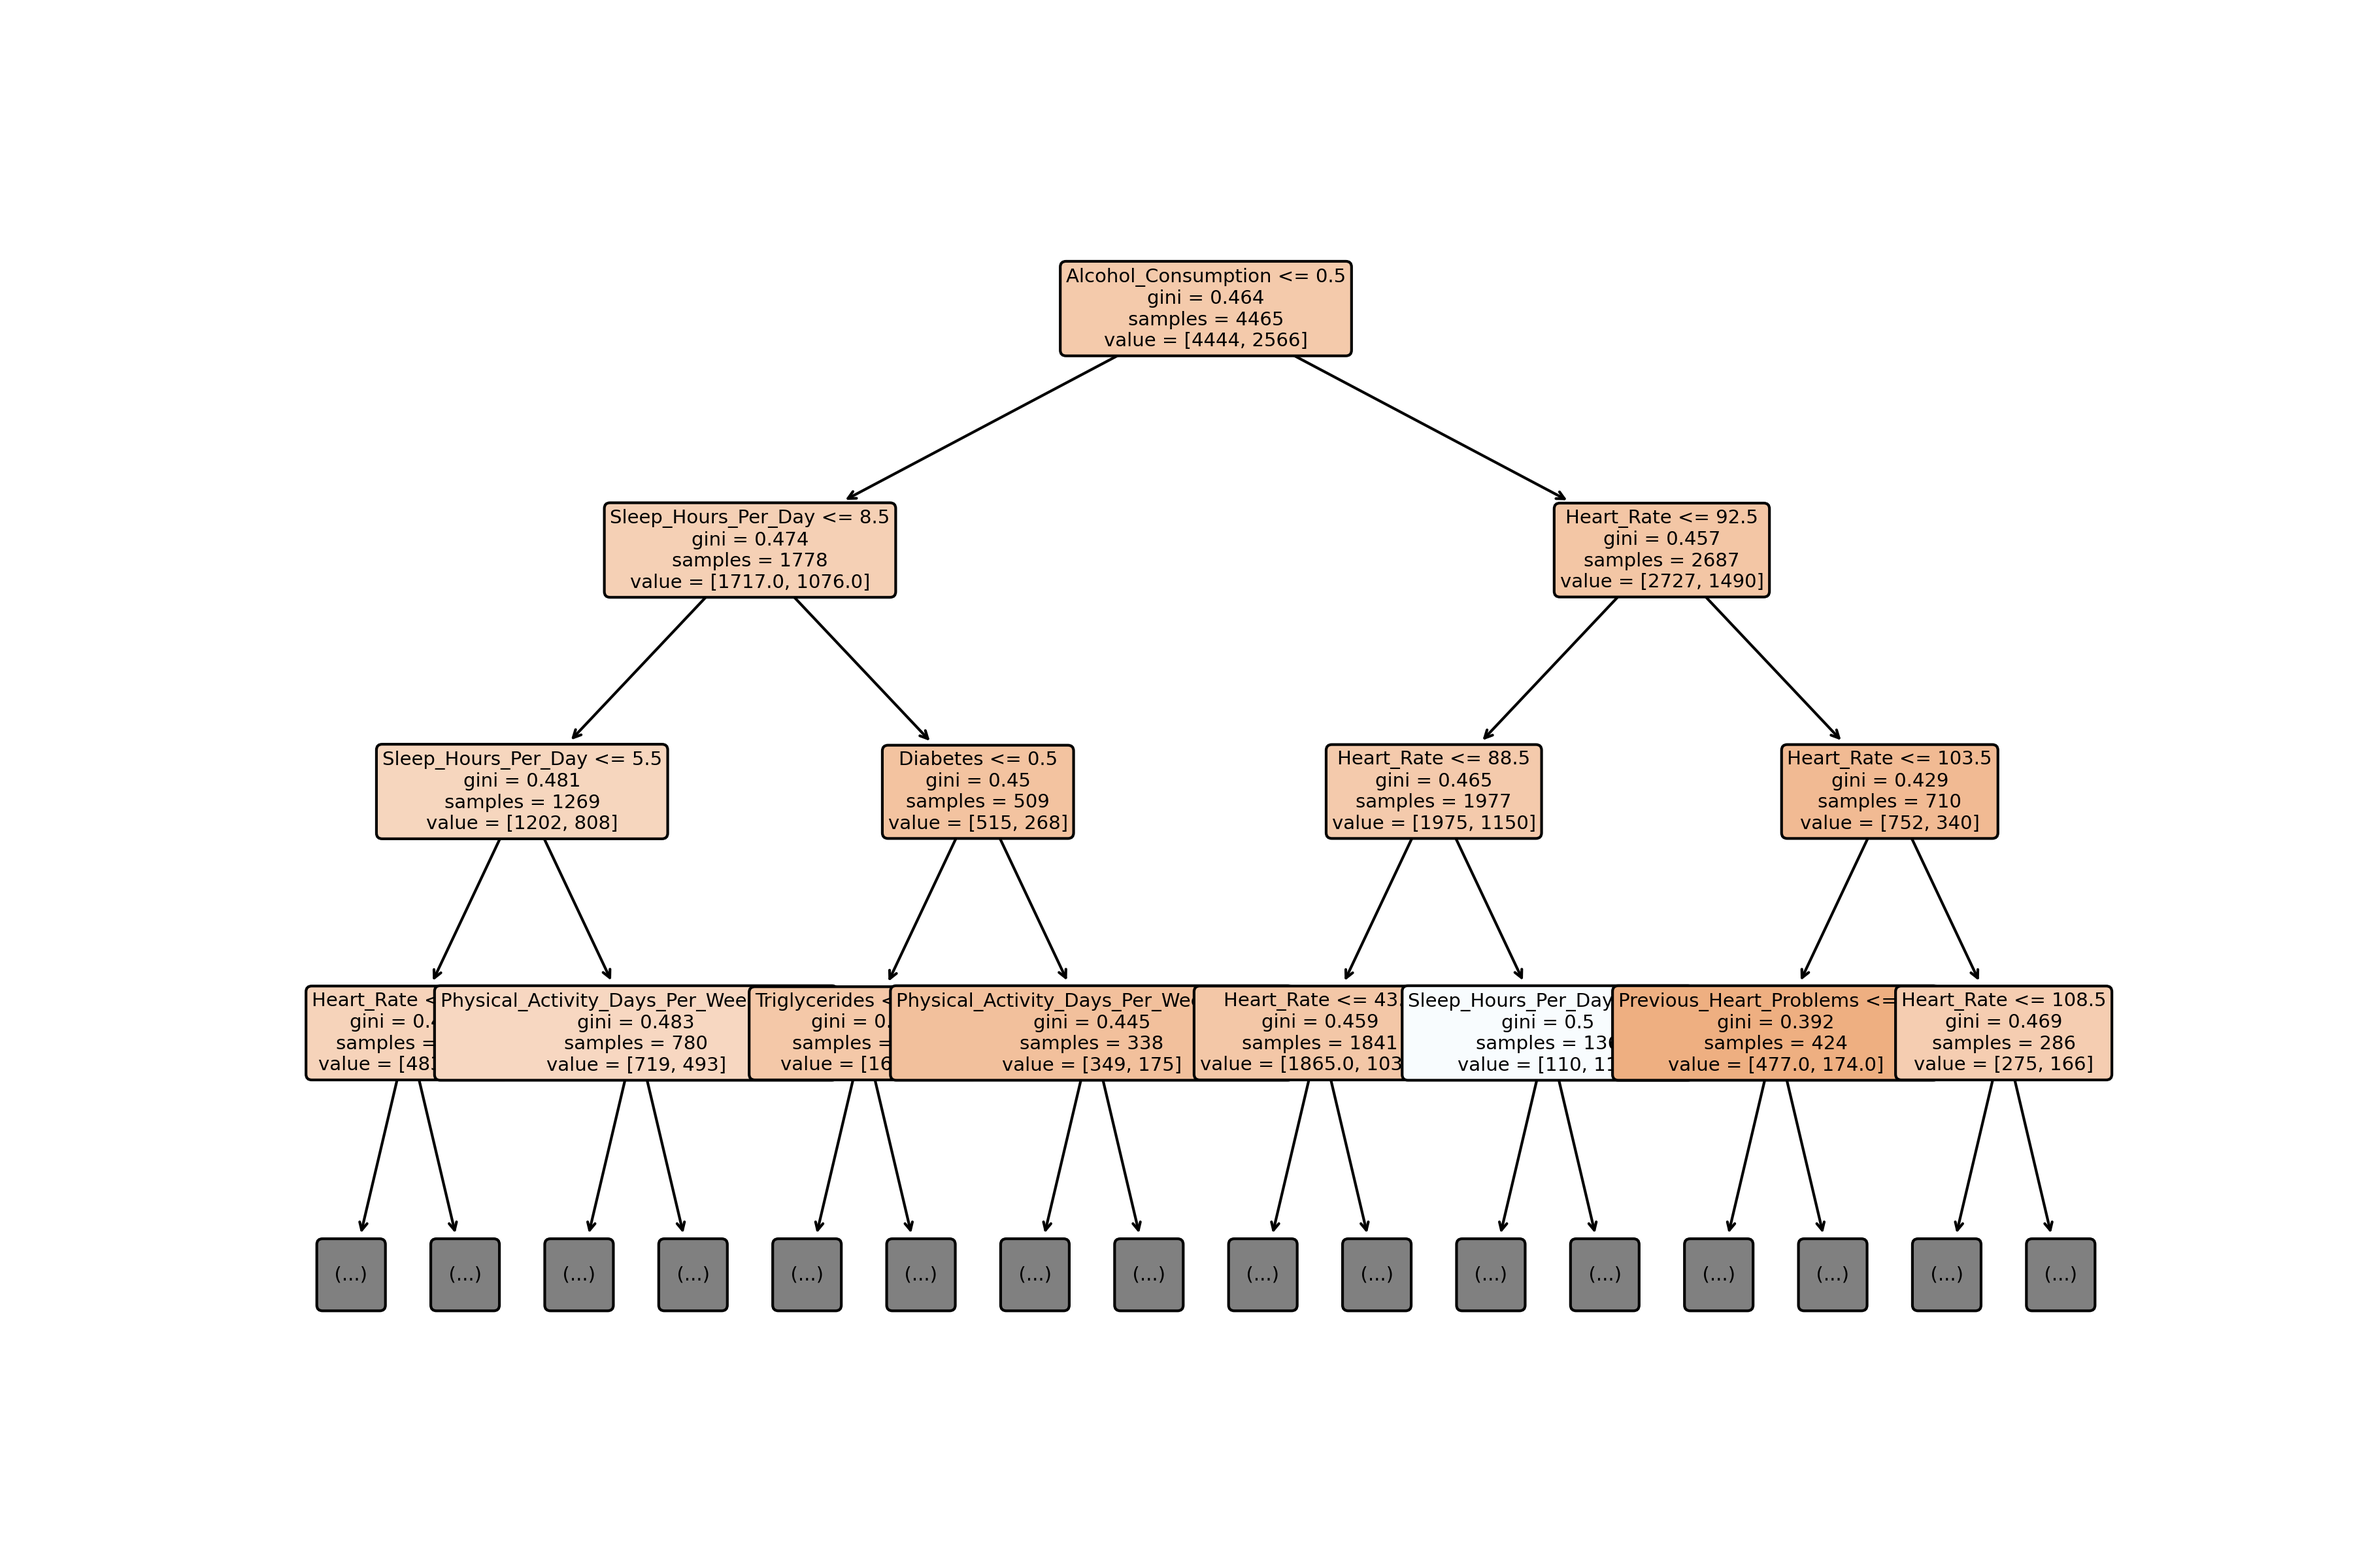
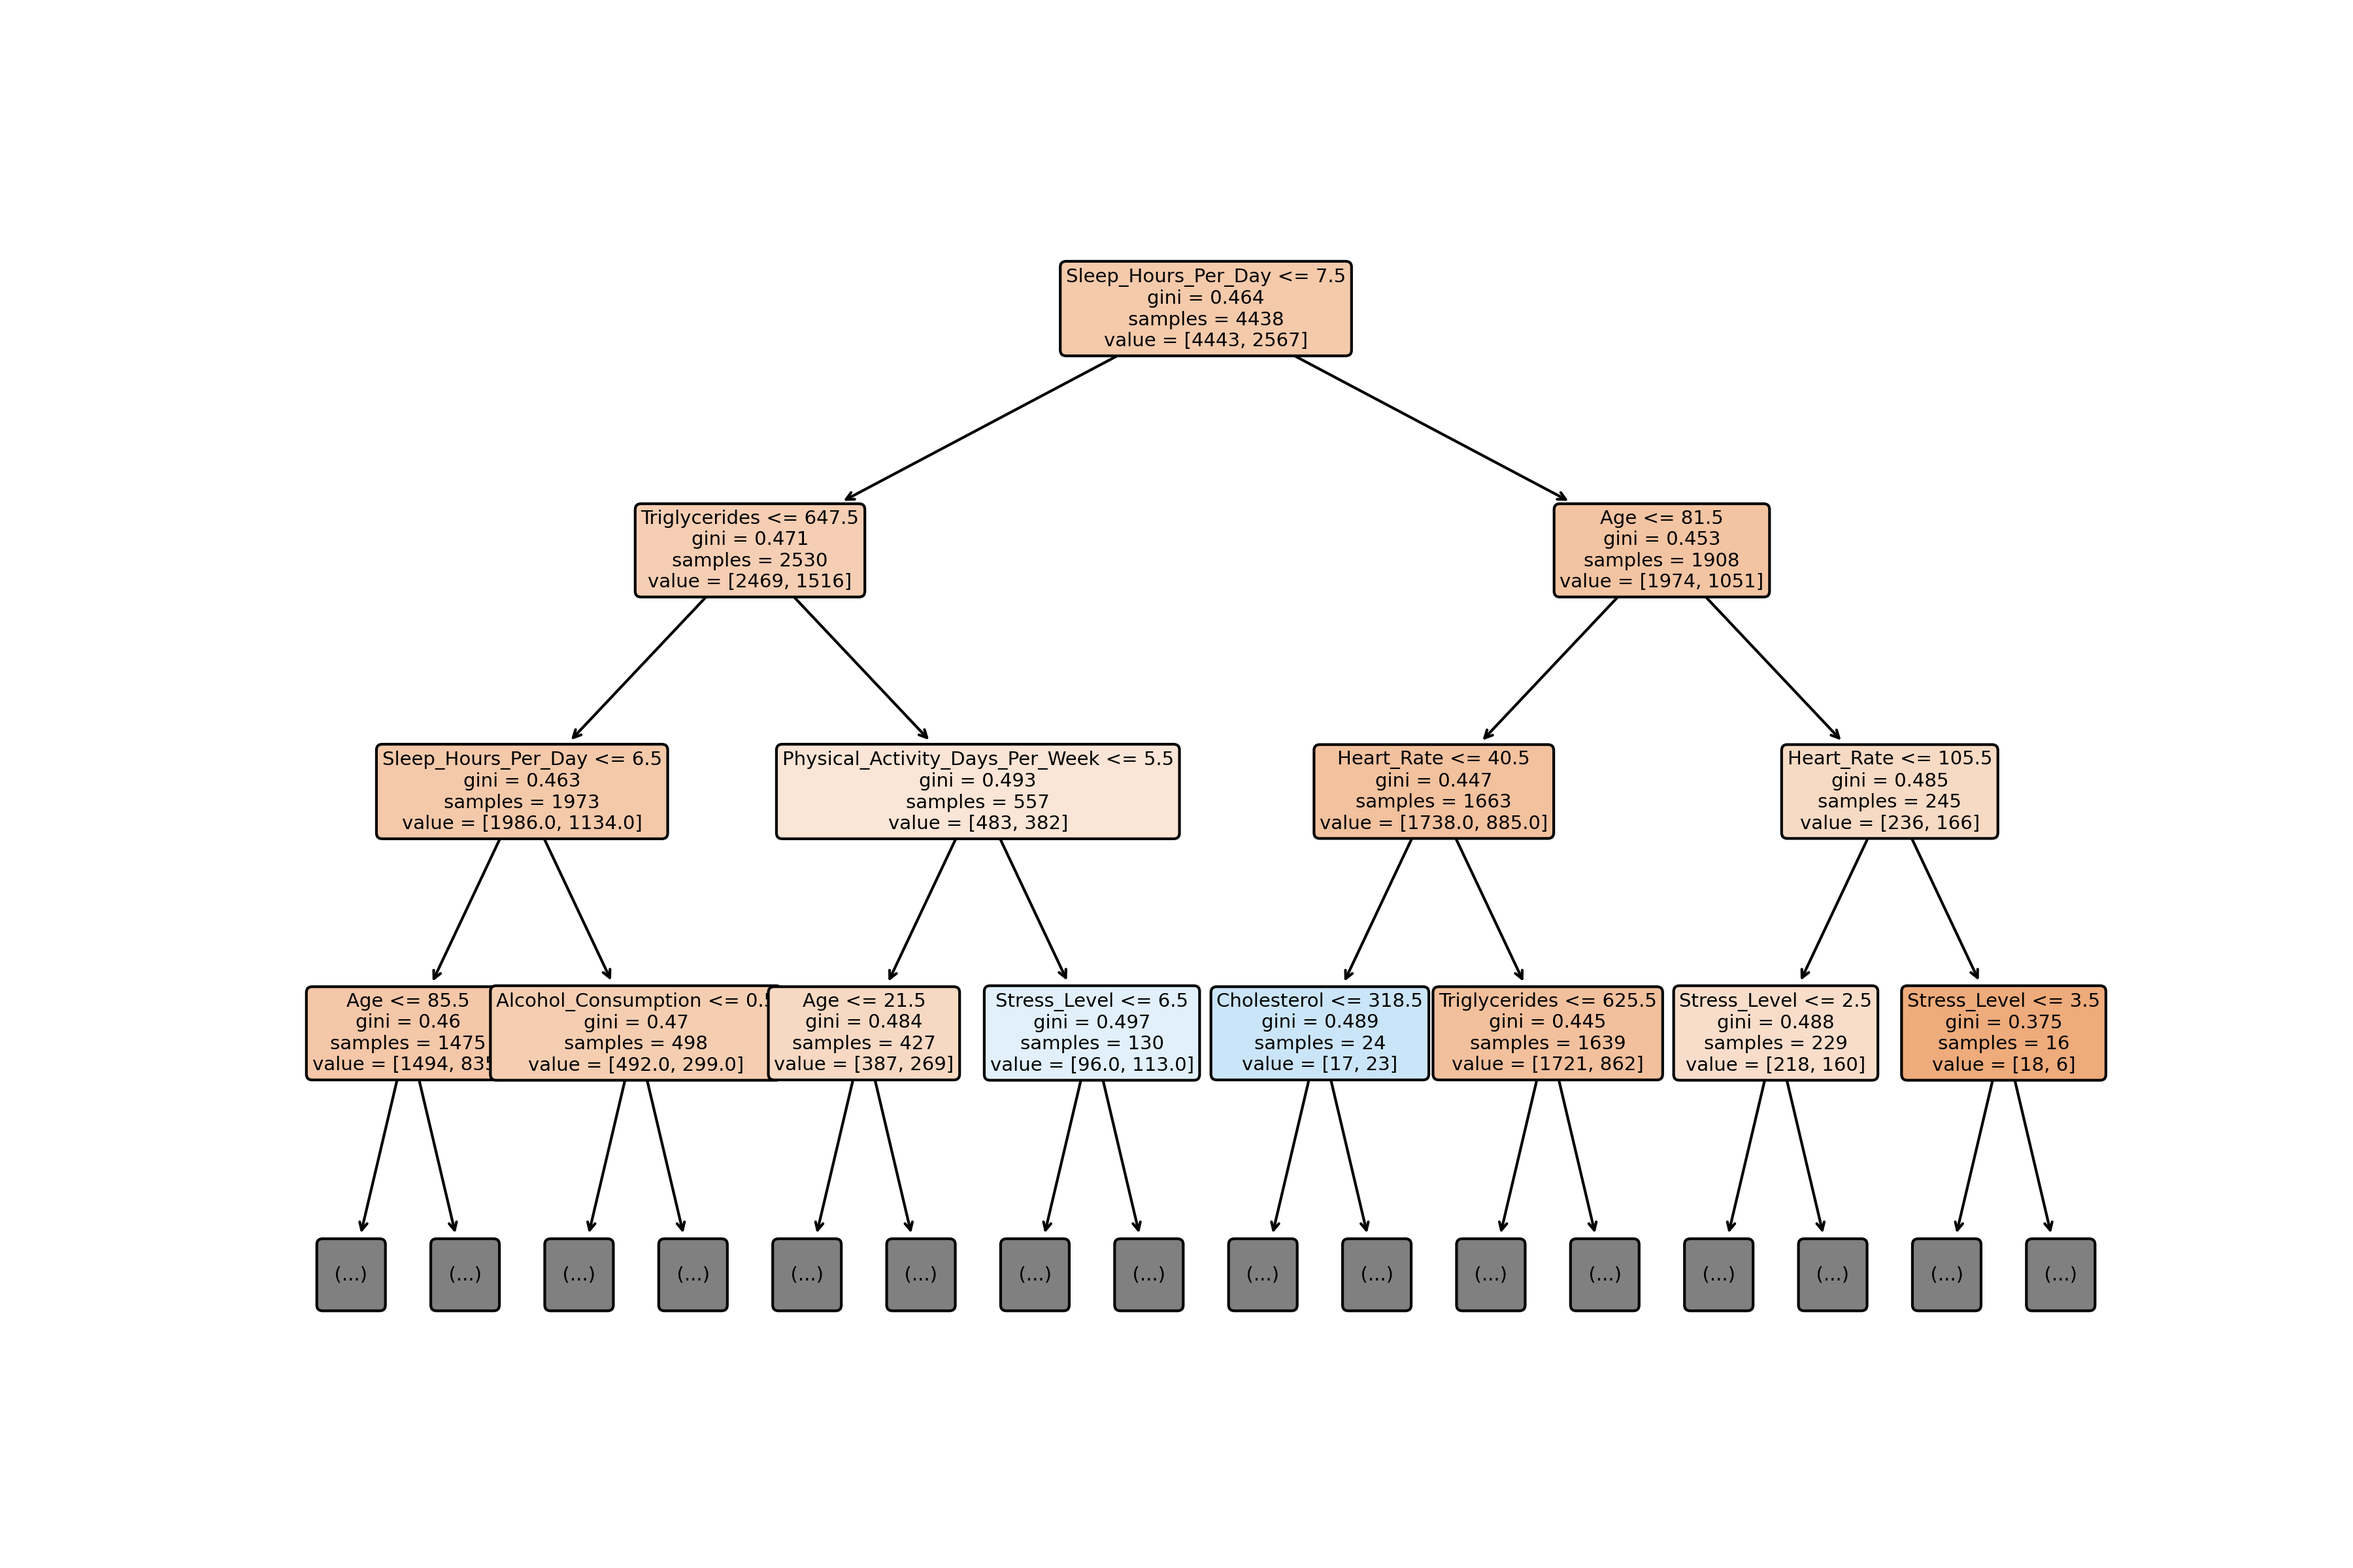
Agregando boton para mostrar grafica de arbol de decision

diff --git a/templates/index.html b/templates/index.html
@@ -18,6 +18,7 @@
     </div>
     <br>
     <div align="center">
+        <!-- Boton para mostrar grafico de barras -->
         <button id="generateBtn" style="display: inline-block; margin-right: 10px;" class="form-submit">Generar Gráfico
             de
             barras</button>
@@ -25,6 +26,7 @@
             <span class="close">&times;</span>
             <img class="modal-content" id="img01">
         </div>
+        <!-- Boton para mostrar grafico de calor -->
         <button id="generateBtn2" style="display: inline-block; margin-right: 10px;" class="form-submit">Generar Gráfico
             de
             calor</button>
@@ -32,12 +34,21 @@
             <span class="close1">&times;</span>
             <img class="modal-content" id="img012">
         </div>
+        <!-- Boton para mostrar grafico de dispersion -->
         <button id="generateBtn3" style="display: inline-block; margin-right: 10px;" class="form-submit">Generar Gráfico
             de
             dispersion</button>
         <div id="myModal3" class="modal">
             <span class="close2">&times;</span>
             <img class="modal-content" id="img013">
+        </div>
+        <!-- Boton para mostrar grafico de arbol de decision -->
+        <button id="generateBtn4" style="display: inline-block; margin-right: 10px;" class="form-submit">Generar Gráfico
+            de
+            decision</button>
+        <div id="myModal4" class="modal">
+            <span class="close3">&times;</span>
+            <img class="modal-content" id="img014">
         </div>
     </div>
     <div class="form-container">
@@ -441,6 +452,28 @@
                     modalImg.src = "static/dispersion.png";
 
                     var span = document.getElementsByClassName("close2")[0];
+                    span.onclick = function () {
+                        modal.style.display = "none";
+                    }
+                }
+            });
+    });
+
+</script>
+
+<script>
+    //Script para mostrar la grafica de arbol de decision al undirle al boton
+    document.getElementById('generateBtn4').addEventListener('click', function () {
+        fetch('/generate_arbol_decision', { method: 'POST' })
+            .then(response => response.json())
+            .then(data => {
+                if (data.generate_arbol_decision) {
+                    var modal = document.getElementById('myModal4');
+                    var modalImg = document.getElementById("img014");
+                    modal.style.display = "block";
+                    modalImg.src = "static/arbol_decision.png";
+
+                    var span = document.getElementsByClassName("close3")[0];
                     span.onclick = function () {
                         modal.style.display = "none";
                     }

diff --git a/static/index.css b/static/index.css
@@ -364,6 +364,16 @@ body {
     transition: 0.3s;
 }
 
+.close3 {
+    color: #fff;
+    position: absolute;
+    top: 10px;
+    right: 25px;
+    font-size: 35px;
+    font-weight: bold;
+    transition: 0.3s;
+}
+
 .close:hover,
 .close:focus {
     color: #bbb;

diff --git a/funcional.py b/funcional.py
@@ -74,17 +74,17 @@ X_train, X_test, y_train,y_test = train_test_split(X,y,random_state = 0,test_siz
 forest = RandomForestClassifier(n_estimators = 10,criterion='gini')
 forest.fit(X_train,y_train)
 
-arbol_individual = forest.estimators_[0]  # Obtener el primer árbol del Random Forest
-nombres_columnas = ['Age', 'Cholesterol', 'Heart_Rate', 'Diabetes', 'Smoking', 'Obesity', 'Alcohol_Consumption', 'Previous_Heart_Problems', 'Medication_Use', 'Stress_Level', 'Triglycerides', 'Physical_Activity_Days_Per_Week', 'Sleep_Hours_Per_Day']
-
-def generar_arbol_decision():
+# Metodo para generar el grafico de arbol de desicion
+def generate_bar_arbol_decision():
+  arbol_individual = forest.estimators_[0]  # Obtener el primer árbol del Random Forest
+  nombres_columnas = ['Age', 'Cholesterol', 'Heart_Rate', 'Diabetes', 'Smoking', 'Obesity', 'Alcohol_Consumption', 'Previous_Heart_Problems', 'Medication_Use', 'Stress_Level', 'Triglycerides', 'Physical_Activity_Days_Per_Week', 'Sleep_Hours_Per_Day']
+  
   plt.figure(figsize=(12, 8))
   tree.plot_tree(arbol_individual, feature_names=nombres_columnas, filled=True, rounded=True,fontsize=7,max_depth=3)
   plt.savefig('static/arbol_decision.png',dpi=300)  # Guardar el gráfico como imagen
   plt.close()
 
-generar_arbol_decision()
-
+#Se imprime el valor estimacion prueba y estimacion entrenamiento.
 estimacion_prueba = forest.score(X_test,y_test)
 estimacion_entrenamiento = forest.score(X_train,y_train)
 print(f'La efectividad con la data de prueba con el modelo RandomForest es de {estimacion_prueba} y con la data de entranamiento es de {estimacion_entrenamiento}')
@@ -142,6 +142,12 @@ def generate_heatmap():
 def generate_dispersion():
   generate_bar_dispersion()
   return jsonify({'generate_dispersion': True})
+
+# Ruta para generar el grafico de arbol de desicion
+@app.route('/generate_arbol_decision', methods=['POST'])
+def generate_arbol_decision():
+  generate_bar_arbol_decision()
+  return jsonify({'generate_arbol_decision': True})
 
 # Ruta para la predicción
 @app.route('/predict', methods=['POST'])
